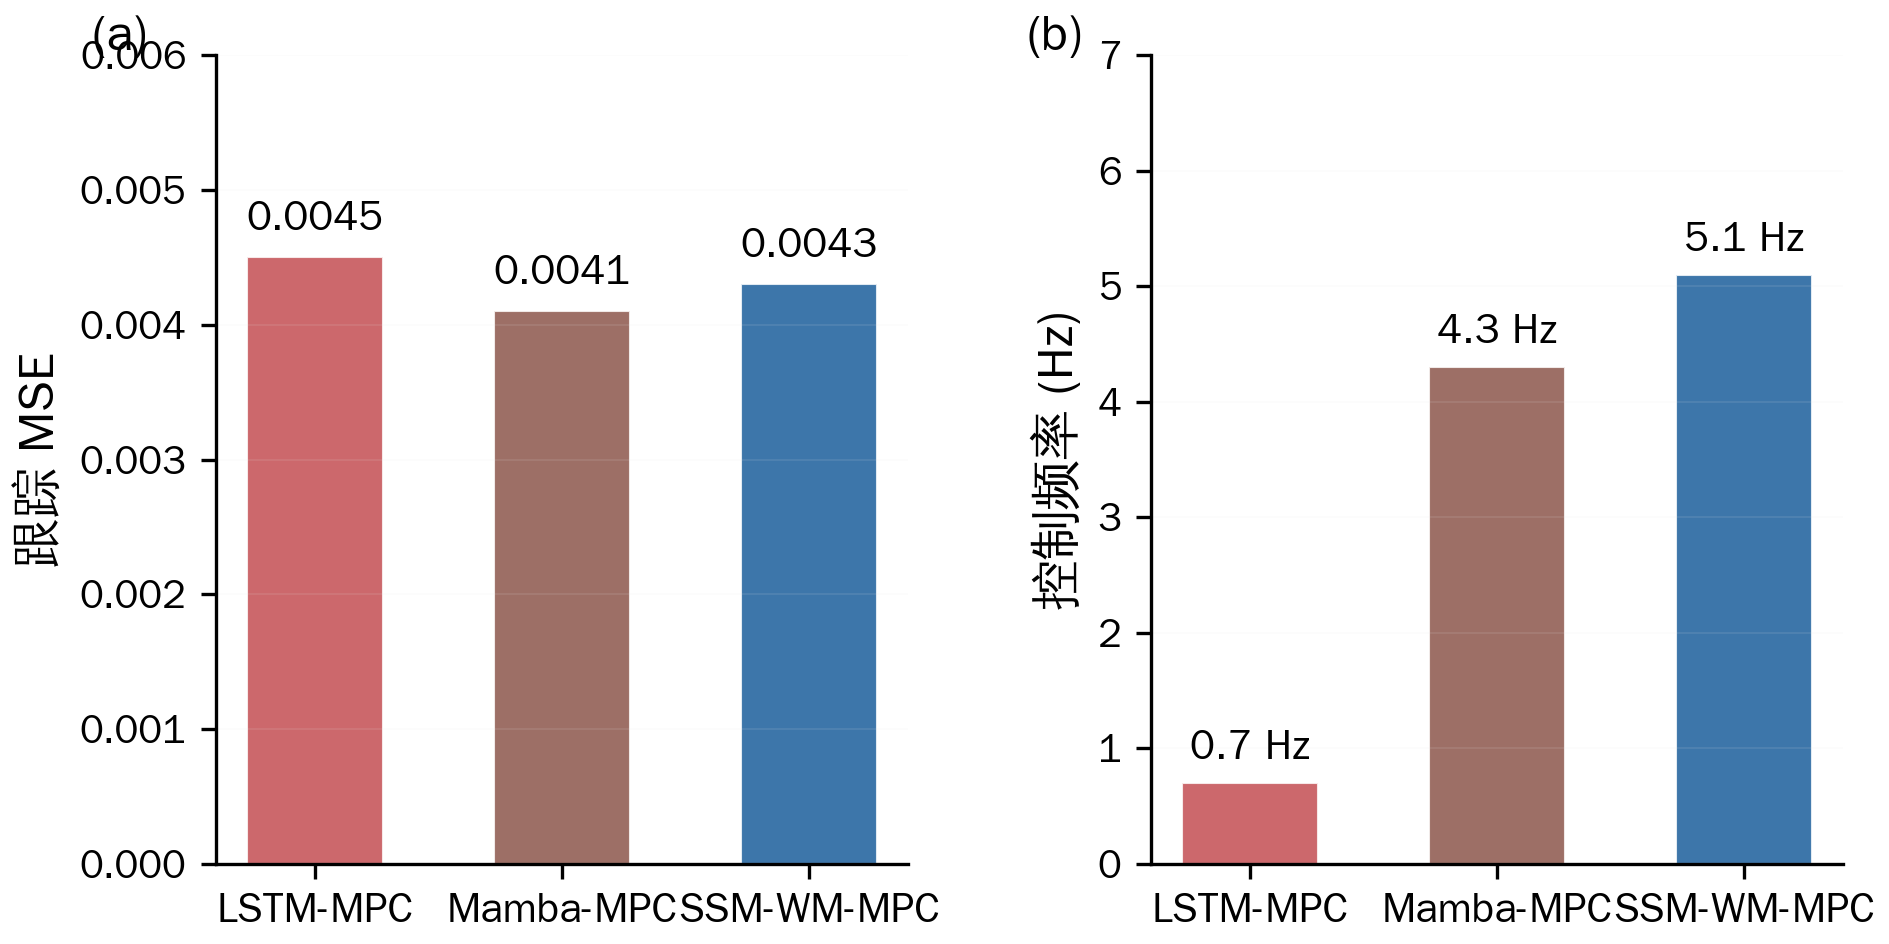
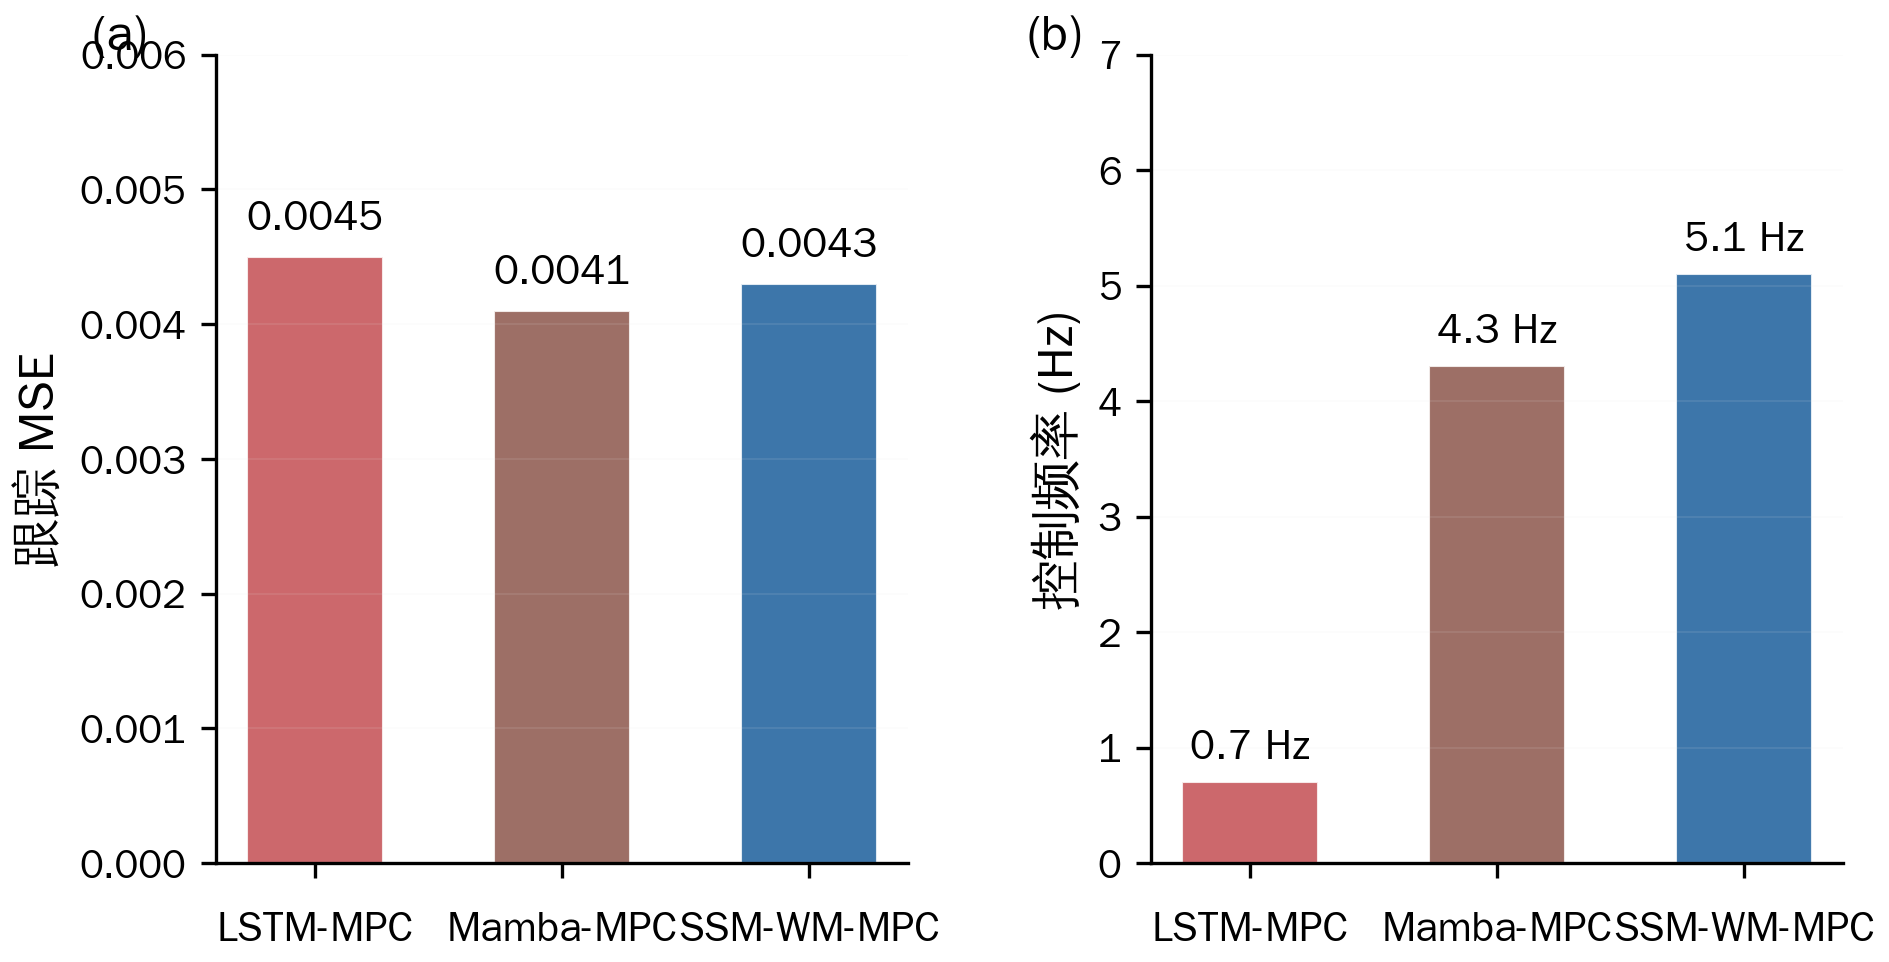
fix: 图5标签位置+横坐标间距

diff --git a/scripts/generate_figures_nature.py b/scripts/generate_figures_nature.py
@@ -251,6 +251,7 @@ def fig5():
     ax1.set_ylabel('跟踪 MSE', fontsize=12)
     ax1.set_xticks(x)
     ax1.set_xticklabels(methods, fontsize=10)
+    ax1.tick_params(axis='x', pad=8)
     ax1.set_ylim(0, 0.006)
     ax1.grid(True, alpha=0.12, axis='y', color=C_GRID, linewidth=0.4)
     ax1.text(-0.18, 1.05, '(a)', transform=ax1.transAxes, fontsize=12, fontweight='bold', va='top')
@@ -262,6 +263,7 @@ def fig5():
     ax2.set_ylabel('控制频率 (Hz)', fontsize=12)
     ax2.set_xticks(x)
     ax2.set_xticklabels(methods, fontsize=10)
+    ax2.tick_params(axis='x', pad=8)
     ax2.set_ylim(0, 7)
     ax2.grid(True, alpha=0.12, axis='y', color=C_GRID, linewidth=0.4)
     ax2.text(-0.18, 1.05, '(b)', transform=ax2.transAxes, fontsize=12, fontweight='bold', va='top')